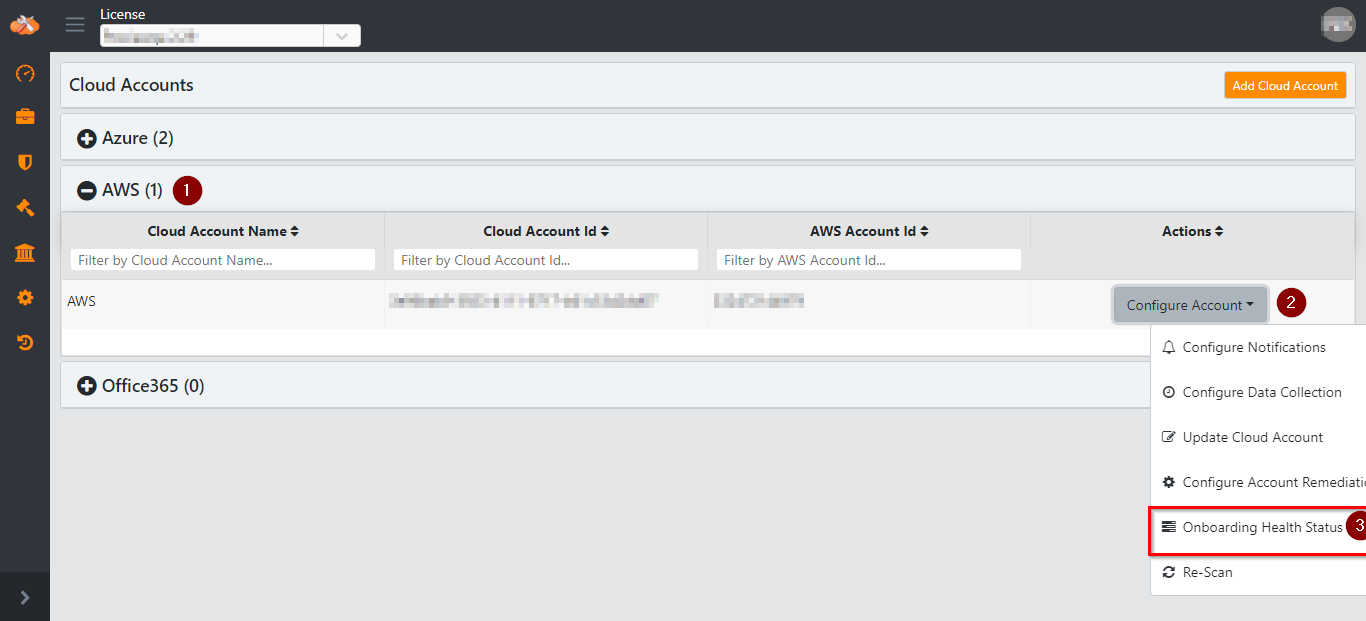
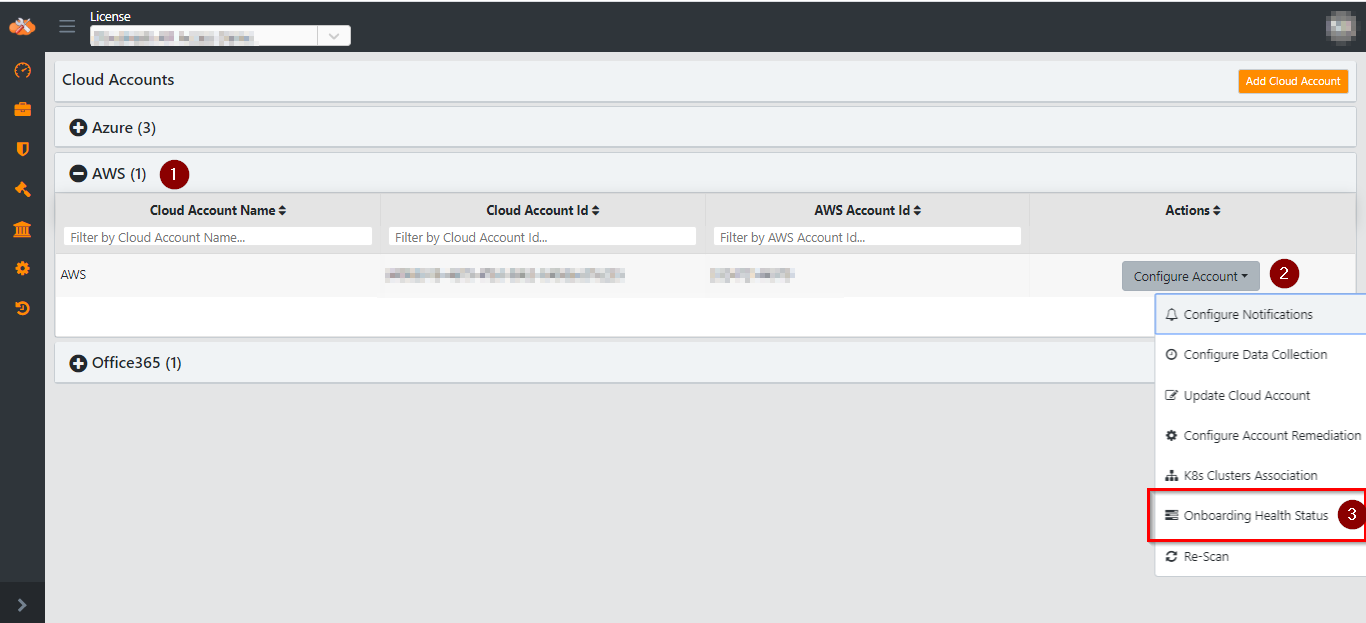
TASK 16366 onboarding health status pages added for all connector types

Changed region(s): [[0.0, 0.0918, 1.0, 1.0], [0.0, 0.0, 1.0, 0.0918]]

diff --git a/docs/onboardingGuide/azureSubscriptions.md b/docs/onboardingGuide/azureSubscriptions.md
@@ -22,7 +22,7 @@ The following steps are required to onboard Microsoft Azure to the Cloudneeti ap
 
 5. [**Advanced Security configurations (Optional)**](../../onboardingGuide/azureAdvancedSecurityConfigurations/){target=_blank} includes adding a script to the customer’s Azure account and granting the required access rights.
 
-    Advanced security configurations (step 5) requires a Cloudneeti PowerShell agent to be installed in an Azure subscription under the same tenant where the Azure subscription is located. The Cloudneeti PowerShell agent retrieves (A) additional configurations information from the Azure Active Directory  (there are no Azure APIs to retrieve this information) and pushes (B) this information as a JSON file to the Cloudneeti application.
+    Advanced security configurations (step 5) requires a Cloudneeti PowerShell agent to be installed in an Azure subscription under the same tenant where the Azure subscription is located. The Cloudneeti PowerShell agent retrieves (A) additional configuration information from the Azure Active Directory  (there are no Azure APIs to retrieve this information) and pushes (B) this information as a JSON file to the Cloudneeti application.
 
 6. [**Enable Azure Security Center audit policies (Optional)**](../../onboardingGuide/azureSubscriptions/#step-3-enable-azure-security-center-audit-policies){target=_blank} includes updating ASC configurations to make the Azure Cloud account compliant for listed policies using scripts.
 
@@ -310,7 +310,7 @@ If the Key Vault access policy is not added, Cloudneeti application will not be 
 
 Please follow [link](../../onboardingGuide/grantAccessToKeyVaults/){target=_blank} for steps.
 
-## STEP 5: Advanced Security configuration 
+## STEP 5: Advanced Security configurations 
 **This step is optional.**
 An Azure Automation Account resource is deployed to collect data for additional security policies listed here . The Azure Active Directory control plane exposes the data only through PowerShell that needs to run under a Global AD reader credential.
 
@@ -367,18 +367,22 @@ The following steps are done by Cloudneeti application **License Admin** role.
 6.  You will receive a confirmation that the Azure subscription has been added.
     ![Add Account](.././images/azureSubscriptions/Account_Success.png#thumbnail)
 
-### 9.3 Data Collection
+### 9.3 Data Collection and verfication
 
 Once the Azure subscription is added to the cloud account under Cloudneeti
 License, it requires about 5 minutes for the data to be collected and processed,
 before they can be displayed in Cloudneeti dashboards.
+
 
 1.  Select **Dashboard** on the menu
 
 2.  Review the data on dashboard
     ![Data Collection](.././images/azureSubscriptions/Dashboard.png#thumbnail)
 
-Congratulations! You have added an Azure subscription to Cloudneeti application.
+    Congratulations! You have added an Azure subscription to Cloudneeti application.
+
+4. Verify [cloud account health status](../../onboardingGuide/azureAccountHealthStatus/) for prerequisite permissions and configurations verfied on every scan.   
+
 
 **Note:**
 Cloudneeti uses the App Registration (aka service principal) to register Cloudneeti’s MPN ID (4758633) as a Partner to your Azure subscription. It usually takes about a month for Microsoft to reflect this association on the [Customer's Partner Admin Link (PAL) portal page](https://portal.azure.com/#blade/Microsoft_Azure_Billing/managementpartnerblade){target=_blank}.

diff --git a/docs/onboardingGuide/amazonWebServiceAccounts.md b/docs/onboardingGuide/amazonWebServiceAccounts.md
@@ -202,11 +202,9 @@ Once the AWS account is added to the cloud account under the Cloudneeti License,
 
     ![AWS Dashboard](.././images/amazonWebServiceAccounts/AWS-Account_Dashboard.png#thumbnail)
 
-Congratulations! You have added an AWS account to Cloudneeti application.
+    Congratulations! You have added an AWS account to Cloudneeti application.
 
-<!-- ## Configuration
-
-[Configure Notifications](../../administratorGuide/configureNotifications/) -->
+3. Verify [cloud account health status](../../onboardingGuide/azureAccountHealthStatus/) for prerequisite permissions and configurations verfied on every scan.
 
 ## OFFBOARDING
 

diff --git a/docs/onboardingGuide/awsAccountHealthStatus.md b/docs/onboardingGuide/awsAccountHealthStatus.md
@@ -12,9 +12,9 @@ License Admins and Account Admins will have the rights to view Cloud Account's o
 
 2. Click **Onboarding Health Status** (2) in **Configure Account** (1)
 
-    ![Onboarding Health Status](.././images/onboardingHealthCheck/aws_1.png#thumbnail)
+    ![Onboarding Health Status](.././images/onboardingHealthCheck/O365_health_status_1.png#thumbnail)
 
 3. Explore prerequisite sections to see staus of related permissions and/or configurations
 
-    ![Onboarding Health Status](.././images/onboardingHealthCheck/aws_2.png#thumbnail)
+    ![Onboarding Health Status](.././images/onboardingHealthCheck/Azure_2.png#thumbnail)
 

diff --git a/docs/onboardingGuide/office365AccountHealthStatus.md b/docs/onboardingGuide/office365AccountHealthStatus.md
@@ -12,9 +12,9 @@ License Admins and Account Admins will have the rights to view Cloud Account's o
 
 2. Click **Onboarding Health Status** (2) in **Configure Account** (1)
 
-    ![Onboarding Health Status](.././images/onboardingHealthCheck/aws_1.png#thumbnail)
+    ![Onboarding Health Status](.././images/onboardingHealthCheck/O365_1.png#thumbnail)
 
 3. Explore prerequisite sections to see staus of related permissions and/or configurations
 
-    ![Onboarding Health Status](.././images/onboardingHealthCheck/aws_2.png#thumbnail)
+    ![Onboarding Health Status](.././images/onboardingHealthCheck/O365_2.png#thumbnail)
 
